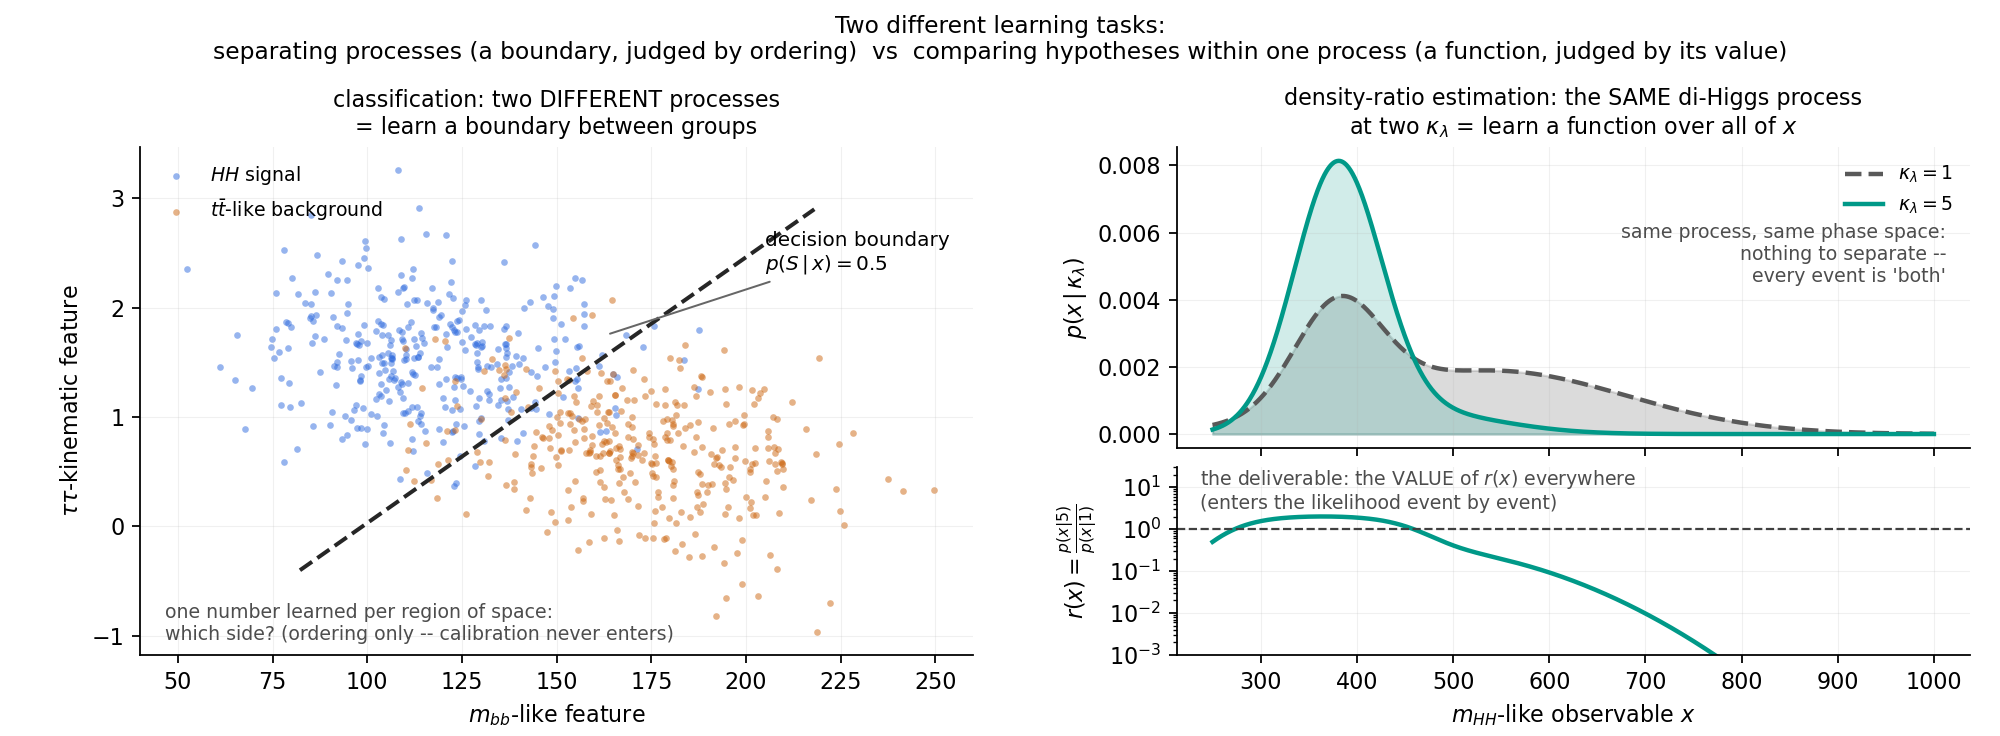
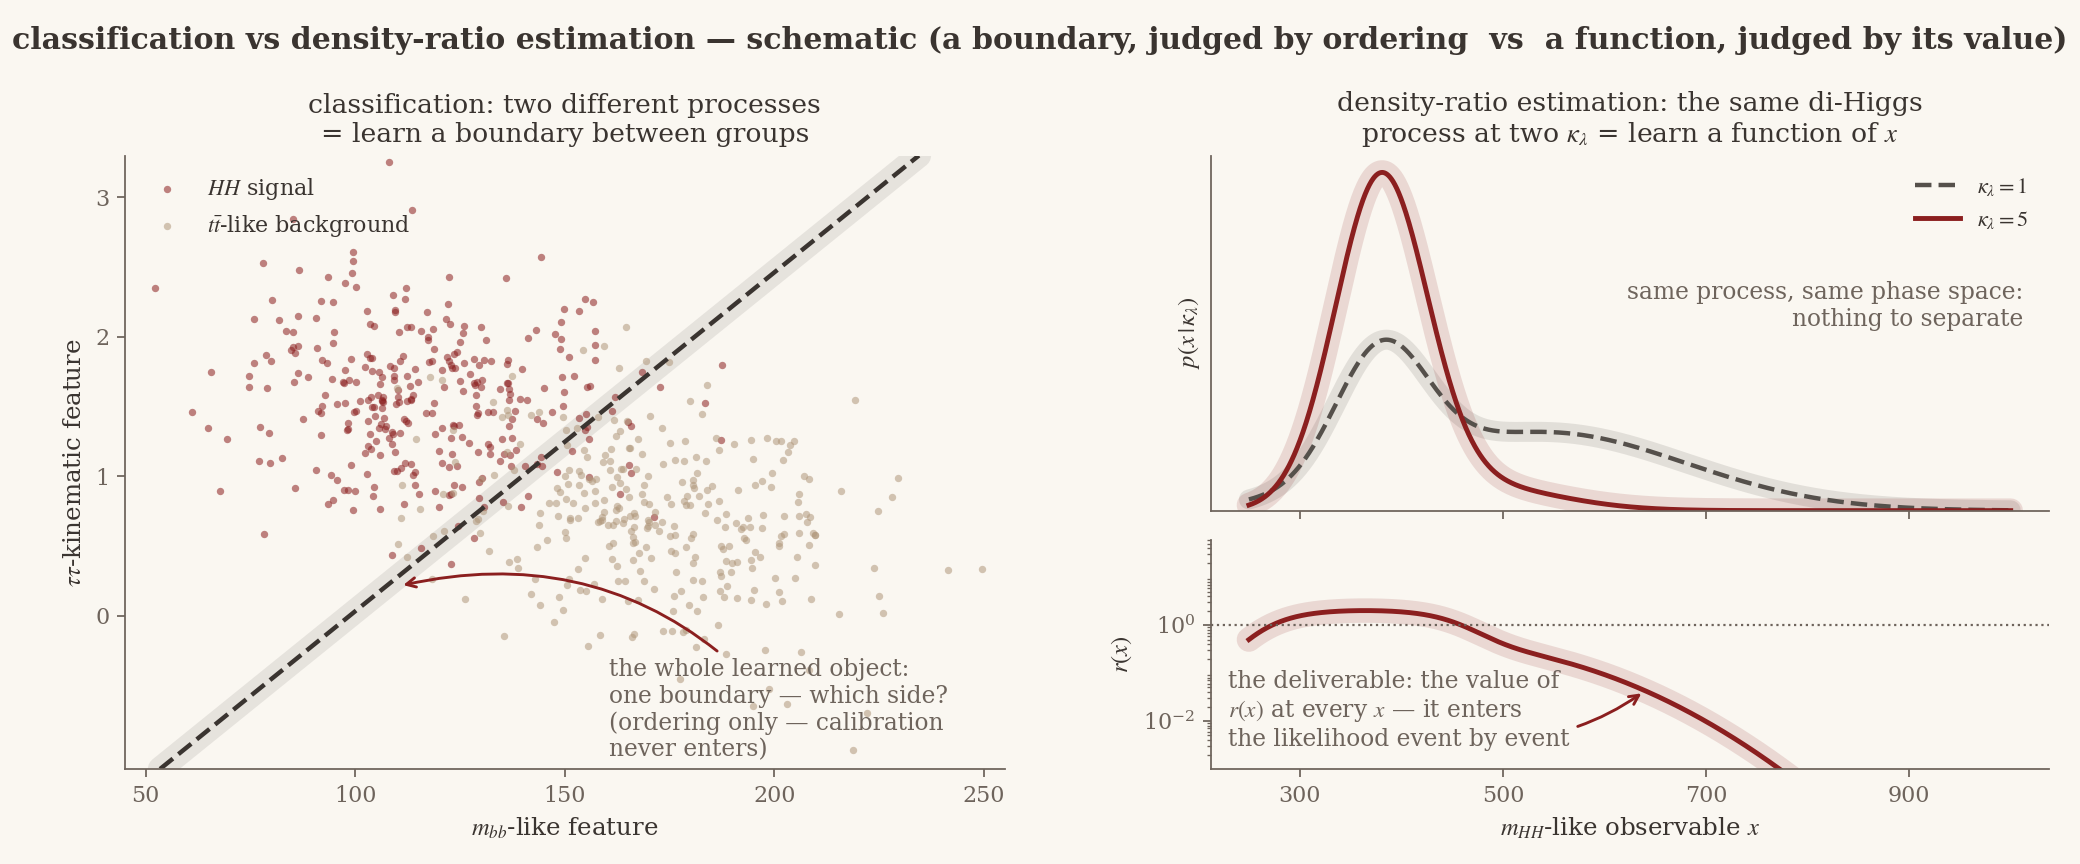
Restyle task demo in schematic lesson style

diff --git a/docs/teaching/boundary_vs_ratio_toy.py b/docs/teaching/boundary_vs_ratio_toy.py
@@ -5,9 +5,12 @@ classification learns one decision boundary; only which side an event falls on (
 ordering) matters, and the score's calibration is irrelevant for ranking.
 
 Right: the SAME di-Higgs process at two kappa_lambda values - the two densities occupy
-the same phase space (nothing to separate, AUC ~ 0.7 at best); the deliverable is the
-VALUE of r(x) = p(x|kl')/p(x|kl) at every x, a calibrated function over the full
-support that enters the likelihood event by event.
+the same phase space (nothing to separate); the deliverable is the VALUE of
+r(x) = p(x|kl')/p(x|kl) at every x, a calibrated function over the full support that
+enters the likelihood event by event.
+
+Drawn in the teaching-schematic style (cream ground, serif, brick-red curves with a
+soft band, curved annotations), matching the sigma-vs-kl schematic in the lessons.
 
   python docs/teaching/boundary_vs_ratio_toy.py   -> boundary_vs_ratio_toy.png
 """
@@ -16,13 +19,31 @@ import matplotlib
 matplotlib.use("Agg")
 import matplotlib.pyplot as plt
 
+CREAM, INK, SOFT = "#FAF7F1", "#3A3430", "#6E645C"
+RED, REDBAND = "#8B1F1F", "#8B1F1F"
+GRAY, TAN = "#55504B", "#B0977B"
+plt.rcParams.update({
+    "font.family": "serif", "mathtext.fontset": "stix",
+    "figure.facecolor": CREAM, "axes.facecolor": CREAM, "savefig.facecolor": CREAM,
+    "text.color": INK, "axes.edgecolor": SOFT, "axes.labelcolor": INK,
+    "xtick.color": SOFT, "ytick.color": SOFT,
+    "axes.spines.top": False, "axes.spines.right": False,
+})
+
+
+def banded(ax, x, y, color=RED, lw=2.2, band=11, **kw):
+    """The signature soft band: the same line drawn wide and faint underneath."""
+    ax.plot(x, y, color=color, lw=band, alpha=0.14, solid_capstyle="round", zorder=1)
+    ax.plot(x, y, color=color, lw=lw, zorder=2, **kw)
+
+
 rng = np.random.default_rng(11)
 
 # ---- left: two processes in a 2-feature plane + the optimal boundary ----
 MU_S, COV_S = [118.0, 1.55], [[620.0, -2.0], [-2.0, 0.22]]   # equal covariances ->
 MU_B, COV_B = [172.0, 0.70], [[620.0, -2.0], [-2.0, 0.22]]   # the boundary is one line
-xs = rng.multivariate_normal(MU_S, COV_S, 350)
-xb = rng.multivariate_normal(MU_B, COV_B, 350)
+xs = rng.multivariate_normal(MU_S, COV_S, 320)
+xb = rng.multivariate_normal(MU_B, COV_B, 320)
 
 
 def _gauss2(g, mu, cov):
@@ -44,59 +65,65 @@ def lineshape(kl):
     return p / np.trapezoid(p, X)
 
 
-fig = plt.figure(figsize=(12.5, 4.6))
-gs = fig.add_gridspec(2, 2, width_ratios=[1.05, 1], height_ratios=[1.6, 1],
-                      hspace=0.08, wspace=0.25)
+fig = plt.figure(figsize=(13, 5.4))
+gs = fig.add_gridspec(2, 2, width_ratios=[1.05, 1], height_ratios=[1.55, 1],
+                      hspace=0.10, wspace=0.24)
 axA = fig.add_subplot(gs[:, 0])
 axB = fig.add_subplot(gs[0, 1])
 axC = fig.add_subplot(gs[1, 1], sharex=axB)
 
-axA.scatter(*xs.T, s=9, alpha=0.5, color="#2F6BDE", label=r"$HH$ signal", lw=0)
-axA.scatter(*xb.T, s=9, alpha=0.5, color="#CC6611", label=r"$t\bar t$-like background", lw=0)
-g1, g2 = np.meshgrid(np.linspace(40, 260, 300), np.linspace(-0.4, 2.9, 300))
+axA.scatter(*xs.T, s=11, alpha=0.55, color=RED, lw=0, label=r"$HH$ signal")
+axA.scatter(*xb.T, s=11, alpha=0.55, color=TAN, lw=0, label=r"$t\bar t$-like background")
+g1, g2 = np.meshgrid(np.linspace(45, 255, 250), np.linspace(-1.1, 3.3, 250))
 G = np.stack([g1, g2], axis=-1)
-axA.contour(g1, g2, _gauss2(G, MU_S, COV_S) / _gauss2(G, MU_B, COV_B), levels=[1.0],
-            colors="0.15", linestyles="--", linewidths=1.8)
-axA.annotate("decision boundary\n$p(S\\,|\\,x)=0.5$", xy=(163, 1.75), xytext=(205, 2.35),
-             fontsize=9, arrowprops=dict(arrowstyle="-", color="0.4", lw=0.9))
-axA.text(0.03, 0.03, "one number learned per region of space:\nwhich side? "
-         "(ordering only -- calibration never enters)", transform=axA.transAxes, fontsize=8.5,
-         color="0.3")
-axA.set_xlabel(r"$m_{bb}$-like feature"); axA.set_ylabel(r"$\tau\tau$-kinematic feature")
-axA.set_title("classification: two DIFFERENT processes\n= learn a boundary between groups",
-              fontsize=10)
-axA.legend(fontsize=8.5, frameon=False, loc="upper left")
+bnd = axA.contour(g1, g2, _gauss2(G, MU_S, COV_S) / _gauss2(G, MU_B, COV_B), levels=[1.0],
+                  colors=INK, linestyles="--", linewidths=2.0)
+seg = max(bnd.allsegs[0], key=len)
+axA.plot(seg[:, 0], seg[:, 1], color=INK, lw=11, alpha=0.10, solid_capstyle="round", zorder=0)
+mid = seg[int(0.30 * len(seg))]
+axA.annotate("the whole learned object:\none boundary \u2014 which side?\n"
+             "(ordering only \u2014 calibration\nnever enters)",
+             xy=(mid[0] + 3, mid[1]), xytext=(0.55, 0.02), textcoords="axes fraction",
+             fontsize=10.5, color=SOFT, ha="left",
+             arrowprops=dict(arrowstyle="->", color=RED, lw=1.3,
+                             connectionstyle="arc3,rad=0.3"))
+axA.set_xlabel(r"$m_{bb}$-like feature", fontsize=11)
+axA.set_ylabel(r"$\tau\tau$-kinematic feature", fontsize=11)
+axA.set_title("classification: two different processes\n= learn a boundary between groups",
+              fontsize=12)
+axA.legend(fontsize=10, frameon=False, loc="upper left", labelcolor=INK)
+axA.set_xticks([50, 100, 150, 200, 250]); axA.set_yticks([0, 1, 2, 3])
 
 p1, p5 = lineshape(1.0), lineshape(5.0)
-axB.fill_between(X, p1, color="0.45", alpha=0.25)
-axB.plot(X, p1, color="0.35", lw=2.0, ls="--", label=r"$\kappa_\lambda=1$")
-axB.fill_between(X, p5, color="#009988", alpha=0.18)
-axB.plot(X, p5, color="#009988", lw=2.0, label=r"$\kappa_\lambda=5$")
-axB.text(0.97, 0.55, "same process, same phase space:\nnothing to separate --\n"
-         "every event is 'both'", transform=axB.transAxes, fontsize=8.5, color="0.3",
-         ha="right")
-axB.set_ylabel(r"$p(x\,|\,\kappa_\lambda)$")
-axB.set_title("density-ratio estimation: the SAME di-Higgs process\nat two "
-              r"$\kappa_\lambda$ = learn a function over all of $x$", fontsize=10)
-axB.legend(fontsize=8.5, frameon=False, loc="upper right")
+banded(axB, X, p1, color=GRAY, lw=2.0, band=9, ls="--", label=r"$\kappa_\lambda=1$")
+banded(axB, X, p5, label=r"$\kappa_\lambda=5$")
+axB.text(0.97, 0.52, "same process, same phase space:\nnothing to separate",
+         transform=axB.transAxes, fontsize=10.5, color=SOFT, ha="right")
+axB.set_ylabel(r"$p(x\,|\,\kappa_\lambda)$", fontsize=11)
+axB.set_title("density-ratio estimation: the same di-Higgs\nprocess at two "
+              r"$\kappa_\lambda$ = learn a function of $x$", fontsize=12)
+axB.legend(fontsize=10, frameon=False, loc="upper right", labelcolor=INK)
+axB.set_yticks([]); axB.set_ylim(0, None)
 plt.setp(axB.get_xticklabels(), visible=False)
 
-axC.plot(X, p5 / p1, color="#009988", lw=2.0)
-axC.axhline(1.0, color="0.25", lw=1, ls="--")
-axC.set_yscale("log"); axC.set_ylim(1e-3, 30)
-axC.set_xlabel(r"$m_{HH}$-like observable $x$")
-axC.set_ylabel(r"$r(x)=\frac{p(x|5)}{p(x|1)}$")
-axC.text(0.03, 0.78, "the deliverable: the VALUE of $r(x)$ everywhere\n"
-         "(enters the likelihood event by event)", transform=axC.transAxes, fontsize=8.5,
-         color="0.3")
+r = p5 / p1
+banded(axC, X, r)
+axC.axhline(1.0, color=SOFT, lw=1.0, ls=":")
+axC.set_yscale("log"); axC.set_ylim(1e-3, 60)
+axC.set_yticks([1e-2, 1e0])
+axC.set_xlabel(r"$m_{HH}$-like observable $x$", fontsize=11)
+axC.set_ylabel(r"$r(x)$", fontsize=11)
+axC.annotate("the deliverable: the value of\n$r(x)$ at every $x$ \u2014 it enters\n"
+             "the likelihood event by event", xy=(640, r[np.searchsorted(X, 640)]),
+             xytext=(0.02, 0.10), textcoords="axes fraction", fontsize=10.5, color=SOFT,
+             arrowprops=dict(arrowstyle="->", color=RED, lw=1.3,
+                             connectionstyle="arc3,rad=0.3"))
+axC.set_xticks([300, 500, 700, 900])
 
-for ax in (axA, axB, axC):
-    ax.grid(True, alpha=0.18, lw=0.5)
-    ax.spines[["top", "right"]].set_visible(False)
-fig.suptitle("Two different learning tasks:\nseparating processes (a boundary, judged by "
-             "ordering)  vs  comparing hypotheses within one process (a function, judged "
-             "by its value)", fontsize=10.5)
-fig.subplots_adjust(top=0.80, bottom=0.11, left=0.07, right=0.985)
+fig.suptitle("classification vs density-ratio estimation \u2014 schematic "
+             "(a boundary, judged by ordering  vs  a function, judged by its value)",
+             fontsize=13.5, fontweight="bold", y=0.97)
+fig.subplots_adjust(top=0.82, bottom=0.11, left=0.06, right=0.985)
 out = __file__.replace(".py", ".png")
 fig.savefig(out, dpi=160)
 print("wrote", out)
